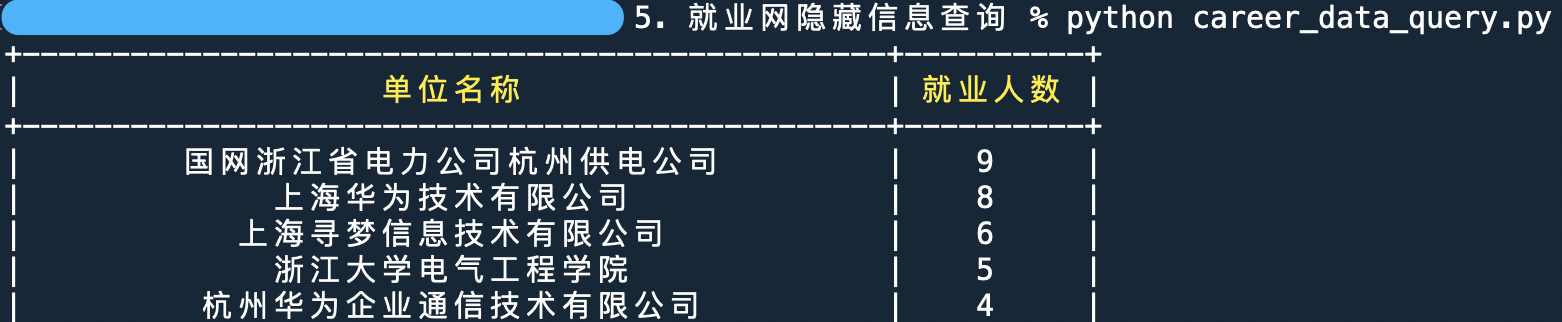
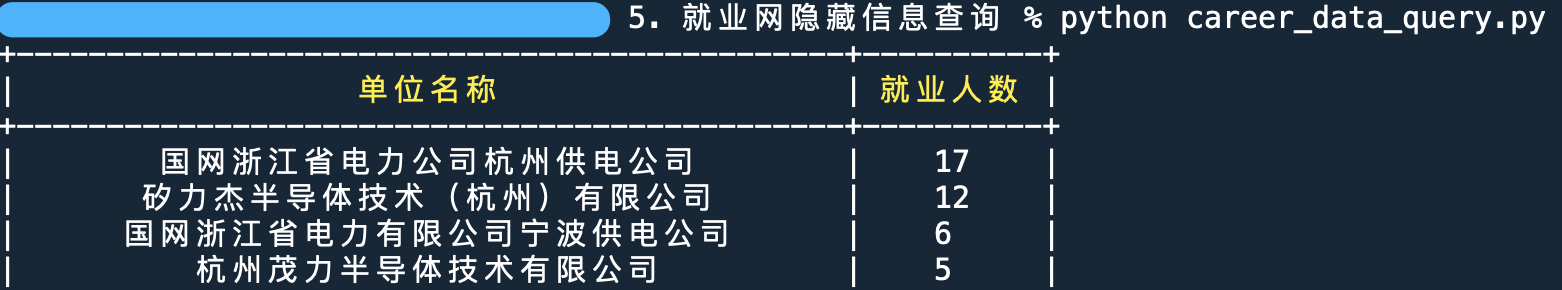
更新README

diff --git a/5. 就业网隐藏信息查询/career_data_query.py b/5. 就业网隐藏信息查询/career_data_query.py
@@ -3,7 +3,7 @@ from prettytable import PrettyTable
 
 
 # 为了防止内网信息泄漏，请从 curl 的转化结果中获取 url
-url = 
+url = ''
 
 data = {
   'send_by_bootstrap_table': 'true',
@@ -12,7 +12,7 @@ data = {
   'searchModel.dateType': '{}',
   'searchModel.numberType': '{}',
   'searchModel.inputSqlType': '0',
-  'bynf': '2020',
+  'bynf': '2021',
   'xydm': '1000',
   'xlccdm': '11',
   'queryModel.showCount': '15',

diff --git a/5. 就业网隐藏信息查询/images/不想回家.md b/5. 就业网隐藏信息查询/images/不想回家.md
@@ -1,0 +1,25 @@
+不想回家
+
+很羡慕那些盼望回家但是回不了的同学们，在我看来他们这种烦恼都是幸福的，因为我真的不想回家。
+
+原因也简单，不想回去见到父母。俩人离婚离的早，也都没有再找，回去了我还得两头跑。
+
+我母亲最大的乐趣就是push我，说咱们家里穷，你要努力，以后你只能靠自己。我早已默认这个事实，从来没怨过谁，投胎是个技术活，我自己菜那也没办法。但是把这种话挂在嘴边真的很烦，就像天天在一个还能活三个月的癌症病人耳朵边给他倒计时一样——你今天还能活2个月29天，还剩2个月28天了呦，还有2个月27天你就死了。艹。
+
+我父亲早些年得过精神分裂，这种病根本就不可能痊愈，时至今日他有时候也会神神叨叨、疯疯癫癫，结结巴巴。自小学起他就开始臆想出我因为父母离异而感到极度痛苦和自卑，然后觉得我心理有问题。尽管我确实觉得父母离异对小孩子的成长不是好事，但我早就接受这个事实了。不管我重复多少次我心理没任何问题，他都会不厌其烦的骚扰我的老师和周围同学，问他们我是不是心理有问题。很多老师带了这么多年学生，什么家长没见过，了解情况以后也就不以为意了，但是弄到我同学那里我就会觉得很没有面子。
+
+艹。
+
+我竭尽全力像一个普通人、正常人一样活着。但是他们不断在我耳边提醒我，你不正常、你心理比较全，你生来就比人家低人一等。
+
+艹。
+
+大部分时候我是一个比较孤僻的人，我不喜欢参加人数较多的社交活动，也不喜欢嘈杂的环境。安静能让我感受到放松，很多时候，遇到再心烦的事，安静一会就能好很多。但是我比较喜欢小孩子，偶尔也带带家教，我感觉和小孩子交流比和成年人交流要轻松愉快的多，尤其是建立起信任以后。相比老师的身份，我更喜欢作为一个朋友。熟悉以后我都会让他们叫我名字或者叫”x哥“。
+
+我幻想之后我也有一个孩子，ta愿意经常和我一起玩，和我分享ta在学校遇到的开心事、烦心事，我去接ta的时候ta可以骄傲得和周围小伙伴们介绍——这是我爸爸！这是我不曾体会过的。
+
+但是我终究还是会回去的，因为我想见我奶奶。我爷爷去世以后，她便一个人住了。她膝盖做过手术，所以虽然有电梯，她下一趟楼也是很费劲的。之前我堂哥还在国内的时候，每年过年她还会做顿饭，虽然姑姑一家子在国外，但是也还算有点年味。现在我父亲和我叔叔身体都不好，堂哥也出国上学了，奶奶也就不做饭了。这样也好，轻松一点，少点操劳。
+
+我已经能想象到回去以后到景象。也罢，谁叫咱菜呢？
+
+别人当团圆，我只当吃饭。

diff --git a/5. 就业网隐藏信息查询/README.md b/5. 就业网隐藏信息查询/README.md
@@ -14,7 +14,11 @@
 
    为了防止内网信息泄漏，请从转化出的Python代码中获取目标 url
 
-3. 运行程序，下图是以2021年电气硕士为例的运行结果。
+3. 将`data`中的bynf改为2021
+
+   ![](./images/bynf.png)
+
+4. 运行程序，下图是以2021年电气硕士为例的运行结果。
 
 ![](./images/example.png)
 

diff --git a/README.md b/README.md
@@ -35,6 +35,8 @@
    
 6. 校园卡流水查询
 
+   详见[README](./6.%20校园卡流水查询/README.md)
+
 
 
 ## 使用方法
